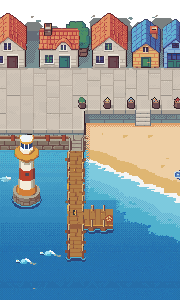
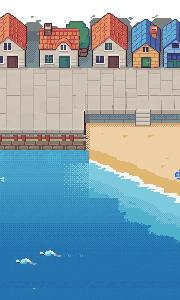
항구 도시: 바다 위 등대·부두·선착장 빼고, 바다로 내려가는 계단 없애 울타리·축대 이음, 도시 쪽 화분 5개 뺌 (경완 '바다 위에 있는 등대랑 다리 다 빼줘봐 바다로 내려가는 계단 없애고 울타리 연장. 도시 쪽에 있는 화분 다 빼줘')
Claude-Session: https://claude.ai/code/session_012Z4iFifcZH9cfXSxsF9mWo

diff --git a/assets_src/maps/mix/clean.py b/assets_src/maps/mix/clean.py
@@ -1,0 +1,41 @@
+# 항구 도시: 바다 위 등대·부두·선착장 빼기, 바다로 내려가는 계단 없애고 울타리·축대 이어 붙이기, 도시 쪽 화분 빼기
+# (경완 '바다 위에 있는 등대랑 다리 다 빼줘봐 바다로 내려가는 계단 없애고 울타리 연장. 도시 쪽에 있는 화분 다 빼줘')
+import sys
+from PIL import Image
+im=Image.open(sys.argv[1]).convert('RGBA'); p=im.load(); src=im.copy(); s=src.load()
+# 1) 화분 5개: 산책길 타일 한 칸(13px) 왼쪽을 복사
+for x0 in (76,101,126,150,172):
+  for y in range(92,109):
+    for x in range(x0,min(180,x0+11)): p[x,y]=p[x-13,y]   # 이미 지운 칸을 원본 삼아 (옆 화분이 따라오지 않게)
+# 2) 울타리·축대 (등대 머리·계단 자리): x 42~65 칸을 왼쪽 끝부터 84 까지 되풀이
+for y in range(131,153):
+  for x in range(0,84):
+    if 42<=x<66: continue
+    p[x,y]=s[42+((x-42)%24),y]
+# 3) 바다: 등대·부두·선착장 자리를 같은 줄의 깨끗한 바다로 (40px 간격으로 찾음)
+sea=lambda c: c[2]>c[0]+60 and (c[0]*3+c[1]*6+c[2])/10<150
+def inmask(x,y):
+  return (4<=x<=47 and 150<=y<=214) or (61<=x<=88 and 150<=y<=264) or (80<=x<=117 and 198<=y<=238)
+for y in range(151,300):
+  for x in range(0,118):
+    if inmask(x,y):
+      c=s[48+(x%12),y]; k=6
+      while not sea(c) and k<60: c=s[48+(x%12),min(299,y+k)]; k+=6   # 물거품·갈색 물결은 건너뜀
+      p[x,y]=c   # 등대·부두 사이 깨끗한 깊은 바다 띠(x 48~59)
+# 3b) 축대 밑 갈색 물결 줄 지우기
+q0=im.copy().load()
+for y in range(151,178):
+  for x in range(0,89):
+    if not sea(q0[x,y]) and q0[x,y][2]<=q0[x,y][0]+40:
+      for k in range(4,40,4):
+        c=q0[x,min(299,y+k)]
+        if sea(c): p[x,y]=c; break
+# 4) 왼쪽 깊은 바다와 오른쪽 얕은 물(250) 사이 세로 경계를 디더로 섞음
+BAY=[[0,8,2,10],[12,4,14,6],[3,11,1,9],[15,7,13,5]]
+q=im.copy().load()
+for y in range(150,214):
+  for x in range(60,89):
+    t=(x-60)/29*(1-(y-150)/64)
+    c=q[89+((x-60)%8),y]
+    if t*16>BAY[y&3][x&3]+.5 and c[2]>c[0]+40: p[x,y]=c
+im.save(sys.argv[2])
